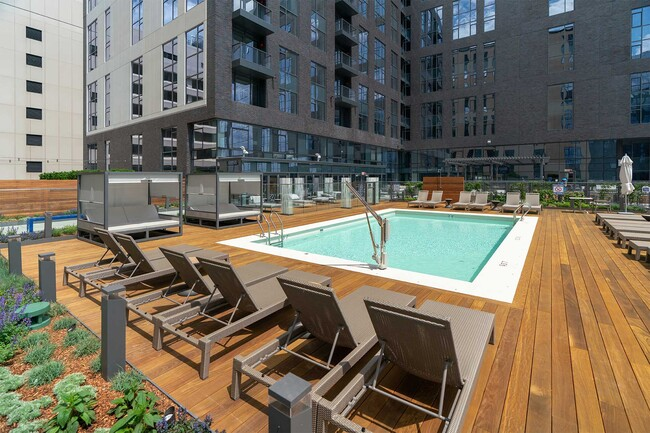
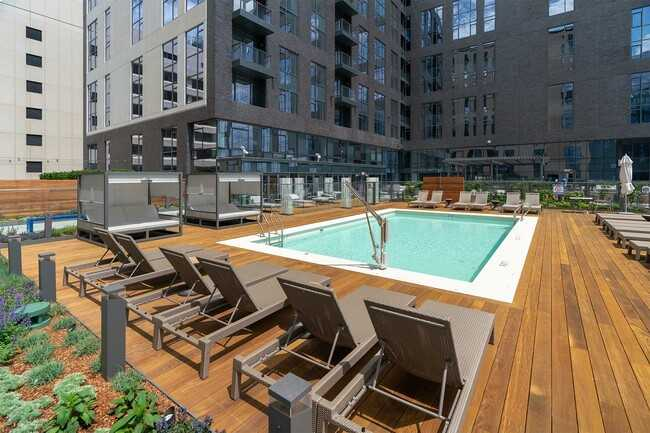
Changed all houses to be much smaller jpgs

diff --git a/js/listings.js b/js/listings.js
@@ -20,7 +20,7 @@ const properties = [
         { 
                 id: 3, title: "The Exchange Street Apartments", address: "100-150 Exchange St, Malden, MA 02148",
                 type: "Studio - 2 Beds", price: "$2,380 - $3,710", distance: "3.2 miles to Medford/Somerville",
-                imageUrl: "img/house_3.png", datePosted: "1 Day Ago", phone: "(857) 345-6789",
+                imageUrl: "img/house_3.jpg", datePosted: "1 Day Ago", phone: "(857) 345-6789",
                 
                 campus: "Boston", perBedroomPrice: 1190, pricingType: "Per Bedroom", 
                 buildingType: "Duplex", beds: "2", baths: "1.5", isFavorite: false 
@@ -36,7 +36,7 @@ const properties = [
         { 
                 id: 5, title: "Yorktown House", address: "114 Yorktown Street, Somerville, MA 02144",
                 type: "5 Beds", price: "$6,000", distance: "0.7 miles to Medford/Somerville",
-                imageUrl: "img/house_5.png", datePosted: "4 Days Ago", phone: "(978) 567-8901",
+                imageUrl: "img/house_5.jpg", datePosted: "4 Days Ago", phone: "(978) 567-8901",
                 
                 campus: "Medford/Somerville", perBedroomPrice: 1200, pricingType: "Per Unit", 
                 buildingType: "House", beds: "5", baths: "3", isFavorite: false 
@@ -52,7 +52,7 @@ const properties = [
         { 
                 id: 7, title: "Chetwynd Place", address: "34 Chetwynd Road, Somerville, MA 02144",
                 type: "8 Beds", price: "$10,200", distance: "0.2 miles to Medford/Somerville",
-                imageUrl: "img/house_7.png", datePosted: "2 Weeks Ago", phone: "(781) 789-0123",
+                imageUrl: "img/house_7.jpg", datePosted: "2 Weeks Ago", phone: "(781) 789-0123",
                 
                 campus: "Medford/Somerville", perBedroomPrice: 1275, pricingType: "Per Unit", 
                 buildingType: "House", beds: "8", baths: "4", isFavorite: false 
@@ -68,7 +68,7 @@ const properties = [
         { 
                 id: 9, title: "Park View Residences", address: "75 Park St, Somerville, MA 02145",
                 type: "2 - 5 Beds", price: "$3,000 - $9,500", distance: "1 mile to Medford/Somerville",
-                imageUrl: "img/house_9.png", datePosted: "Updated Today", phone: "(339) 901-2345",
+                imageUrl: "img/house_9.jpg", datePosted: "Updated Today", phone: "(339) 901-2345",
                 
                 campus: "Medford/Somerville", perBedroomPrice: 1500, pricingType: "Per Unit", 
                 buildingType: "Apartment", beds: "5", baths: "3.5", isFavorite: false 
@@ -92,7 +92,7 @@ const properties = [
         { 
                 id: 12, title: "The Pearl Apartments", address: "55 Pearl St, Cambridge, MA 02139",
                 type: "Studio - 2 Beds", price: "$2,750 - $5,250", distance: "2.8 miles to Medford/Somerville",
-                imageUrl: "img/house_12.png", datePosted: "1 Week Ago", phone: "(617) 234-6789",
+                imageUrl: "img/house_12.jpg", datePosted: "1 Week Ago", phone: "(617) 234-6789",
                 
                 campus: "Boston", perBedroomPrice: 1375, pricingType: "Per Bedroom", 
                 buildingType: "Apartment", beds: "2", baths: "1.5", isFavorite: false 
@@ -116,7 +116,7 @@ const properties = [
         { 
                 id: 15, title: "Elm Square Apartments", address: "30 Elm St, Somerville, MA 02144",
                 type: "2 - 4 Beds", price: "$2,900 - $7,200", distance: "1.5 miles to Medford/Somerville",
-                imageUrl: "img/house_15.png", datePosted: "4 Days Ago", phone: "(978) 567-9012",
+                imageUrl: "img/house_15.jpg", datePosted: "4 Days Ago", phone: "(978) 567-9012",
                 
                 campus: "Medford/Somerville", perBedroomPrice: 1450, pricingType: "Per Unit", 
                 buildingType: "Apartment", beds: "4", baths: "2.5", isFavorite: false 
@@ -132,7 +132,7 @@ const properties = [
         { 
                 id: 17, title: "Highland Terrace", address: "160 Highland Ave, Somerville, MA 02143",
                 type: "Studio - 2 Beds", price: "$2,400 - $4,500", distance: "0.9 miles to Medford/Somerville",
-                imageUrl: "img/house_17.png", datePosted: "5 Days Ago", phone: "(617) 789-1234",
+                imageUrl: "img/house_17.jpg", datePosted: "5 Days Ago", phone: "(617) 789-1234",
                 
                 campus: "Medford/Somerville", perBedroomPrice: 1200, pricingType: "Per Bedroom", 
                 buildingType: "Duplex", beds: "2", baths: "1.5", isFavorite: false 
@@ -148,7 +148,7 @@ const properties = [
         { 
                 id: 19, title: "Columbus Courtyard", address: "85 Columbus Ave, Boston, MA 02116",
                 type: "1 - 4 Beds", price: "$2,900 - $9,200", distance: "5.2 miles to Medford/Somerville",
-                imageUrl: "img/house_19.png", datePosted: "Updated Today", phone: "(339) 901-3456",
+                imageUrl: "img/house_19.jpg", datePosted: "Updated Today", phone: "(339) 901-3456",
                 
                 campus: "Boston", perBedroomPrice: 725, pricingType: "Per Bedroom", 
                 buildingType: "Apartment", beds: "4", baths: "3", isFavorite: false 
@@ -156,7 +156,7 @@ const properties = [
         { 
                 id: 20, title: "Summit Place", address: "67 Summit St, Somerville, MA 02143",
                 type: "2 - 5 Beds", price: "$3,000 - $8,000", distance: "1.1 miles to Medford/Somerville",
-                imageUrl: "img/house_20.png", datePosted: "3 Days Ago", phone: "(978) 012-4567",
+                imageUrl: "img/house_20.jpg", datePosted: "3 Days Ago", phone: "(978) 012-4567",
                 
                 campus: "Medford/Somerville", perBedroomPrice: 1500, pricingType: "Per Bedroom", 
                 buildingType: "House", beds: "5", baths: "3", isFavorite: false 
@@ -188,7 +188,7 @@ const properties = [
         { 
                 id: 24, title: "Union Square Flats", address: "5 Union Sq, Somerville, MA 02143",
                 type: "Studio - 3 Beds", price: "$7,750 - $10,200", distance: "1.2 miles to Medford/Somerville",
-                imageUrl: "img/house_24.png", datePosted: "Updated Today", phone: "(339) 890-1235",
+                imageUrl: "img/house_24.jpg", datePosted: "Updated Today", phone: "(339) 890-1235",
                 
                 campus: "Medford/Somerville", perBedroomPrice: 2600, pricingType: "Per Bedroom", 
                 buildingType: "Triplex", beds: "3", baths: "2", isFavorite: false 
